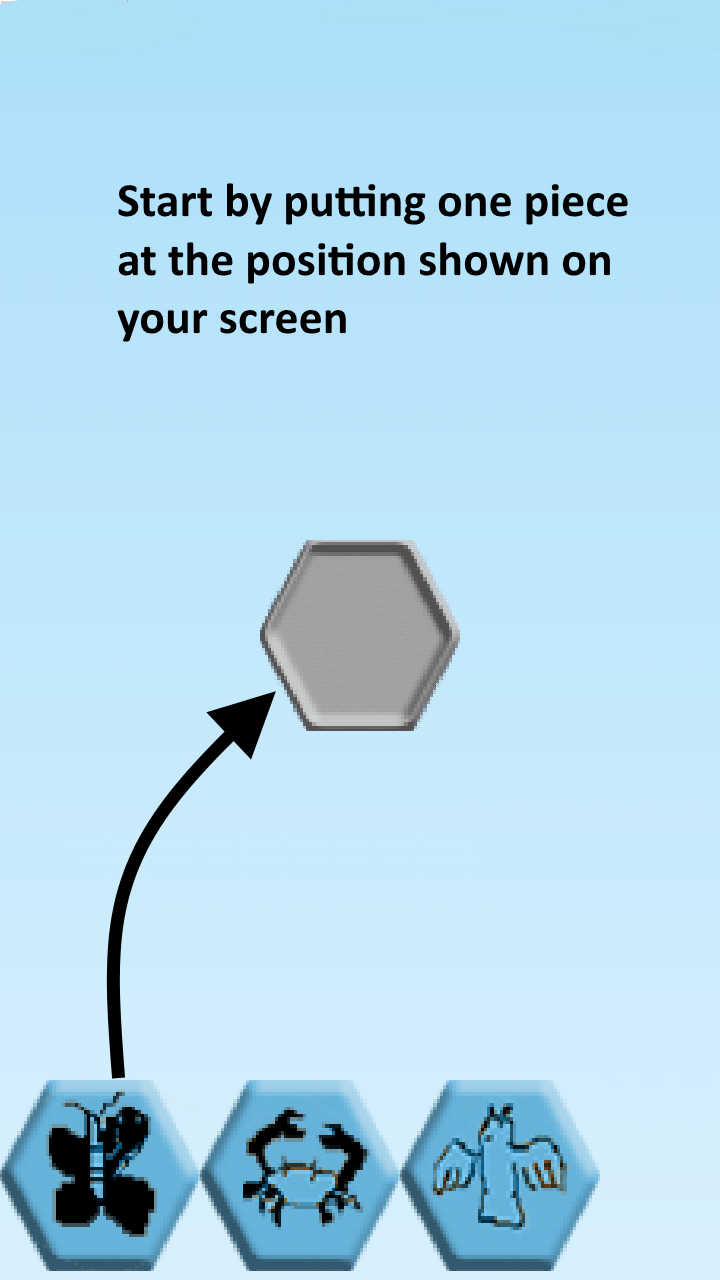
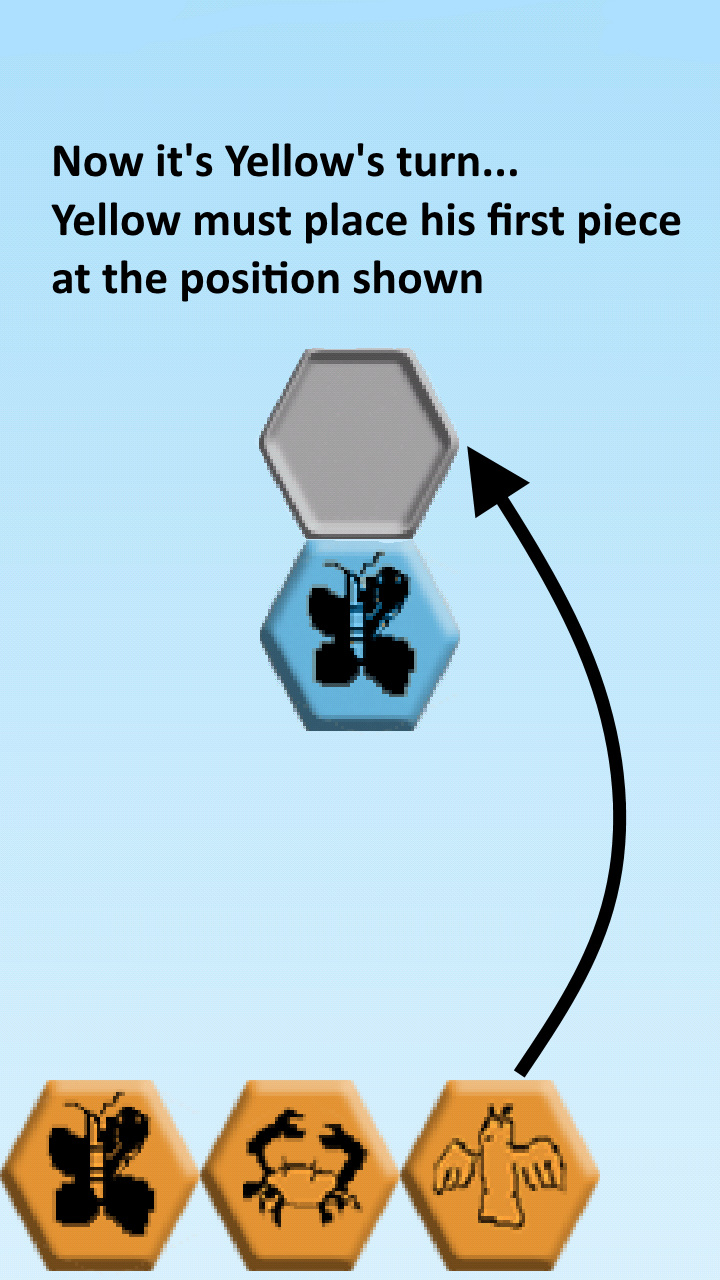
add one more slide in help screen

Changed region(s): [[0.0, 0.0938, 0.9472, 1.0]]

diff --git a/core/src/com/mygdx/game/Assets.java b/core/src/com/mygdx/game/Assets.java
@@ -6,6 +6,7 @@ import com.badlogic.gdx.graphics.g2d.TextureAtlas;
 import com.badlogic.gdx.graphics.g2d.TextureRegion;
 import com.badlogic.gdx.scenes.scene2d.ui.Skin;
 import com.badlogic.gdx.scenes.scene2d.utils.TextureRegionDrawable;
+import com.mygdx.game.util.Constants;
 
 
 /**
@@ -33,11 +34,15 @@ public class Assets {
 	}
 	
 	public static void loadHelp() {
-		helpImages = new TextureRegionDrawable[4];
-		helpImages[0] = new TextureRegionDrawable(new TextureRegion(new Texture(Gdx.files.internal("help/1.png"))));
-		helpImages[1] = new TextureRegionDrawable(new TextureRegion(new Texture(Gdx.files.internal("help/2.png"))));
-		helpImages[2] = new TextureRegionDrawable(new TextureRegion(new Texture(Gdx.files.internal("help/3.png"))));
-		helpImages[3] = new TextureRegionDrawable(new TextureRegion(new Texture(Gdx.files.internal("help/4.png"))));
+		helpImages = new TextureRegionDrawable[Constants.numberOfHelpImages];
+		for (int i = 0; i < Constants.numberOfHelpImages; i++) {
+			helpImages[i] = new TextureRegionDrawable(new TextureRegion(new Texture(Gdx.files.internal("help/" + i + ".png"))));
+		}
+		//helpImages[0] = new TextureRegionDrawable(new TextureRegion(new Texture(Gdx.files.internal("help/1.png"))));
+		//helpImages[1] = new TextureRegionDrawable(new TextureRegion(new Texture(Gdx.files.internal("help/2.png"))));
+		//helpImages[2] = new TextureRegionDrawable(new TextureRegion(new Texture(Gdx.files.internal("help/3.png"))));
+		//helpImages[3] = new TextureRegionDrawable(new TextureRegion(new Texture(Gdx.files.internal("help/4.png"))));
+		
 	}
 
 	public static void disposeMainMenuOrSettings() {

diff --git a/core/src/com/mygdx/screen/HelpScreen.java b/core/src/com/mygdx/screen/HelpScreen.java
@@ -14,6 +14,7 @@ import com.badlogic.gdx.scenes.scene2d.ui.Table;
 import com.badlogic.gdx.scenes.scene2d.ui.TextButton;
 import com.badlogic.gdx.scenes.scene2d.utils.ClickListener;
 import com.mygdx.game.Assets;
+import com.mygdx.game.util.Constants;
 
 public class HelpScreen implements Screen {
 	private Table table;
@@ -107,7 +108,7 @@ public class HelpScreen implements Screen {
 		btnNext.addListener(new ClickListener(){
             @Override
             public void clicked(InputEvent event, float x, float y) {
-            	if (currentImageIndex >= 3) {
+            	if (currentImageIndex >= (Constants.numberOfHelpImages - 1)) {
             		return;
             	}
             	currentImageIndex += 1;

diff --git a/core/src/com/mygdx/game/util/Constants.java b/core/src/com/mygdx/game/util/Constants.java
@@ -9,4 +9,5 @@ public class Constants {
     public final static float WORLD_WIDTH = w * 3;
     public final static float WORLD_HEIGHT = h * 3;
     public final static int TILE_LENGTH = 200;
+    public final static int numberOfHelpImages = 5;
 }
